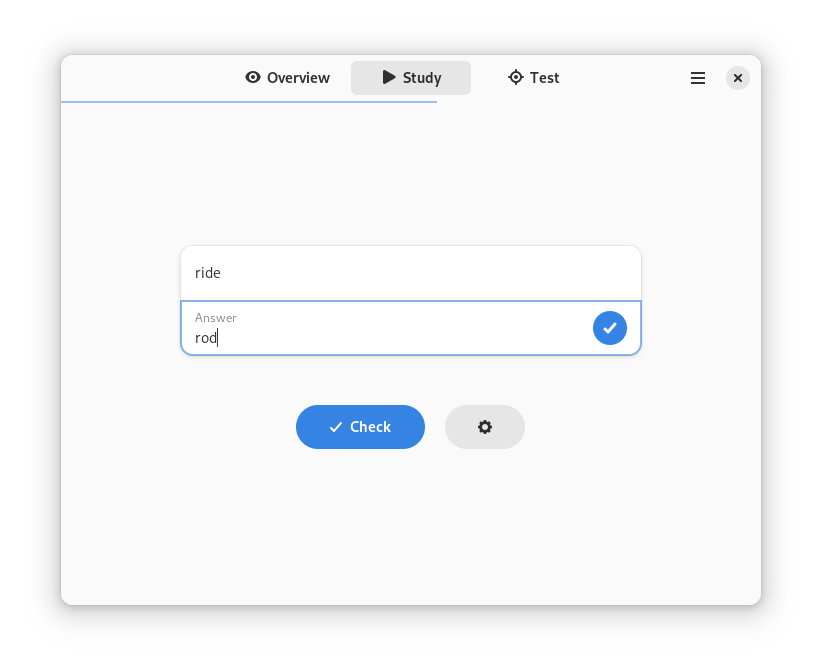
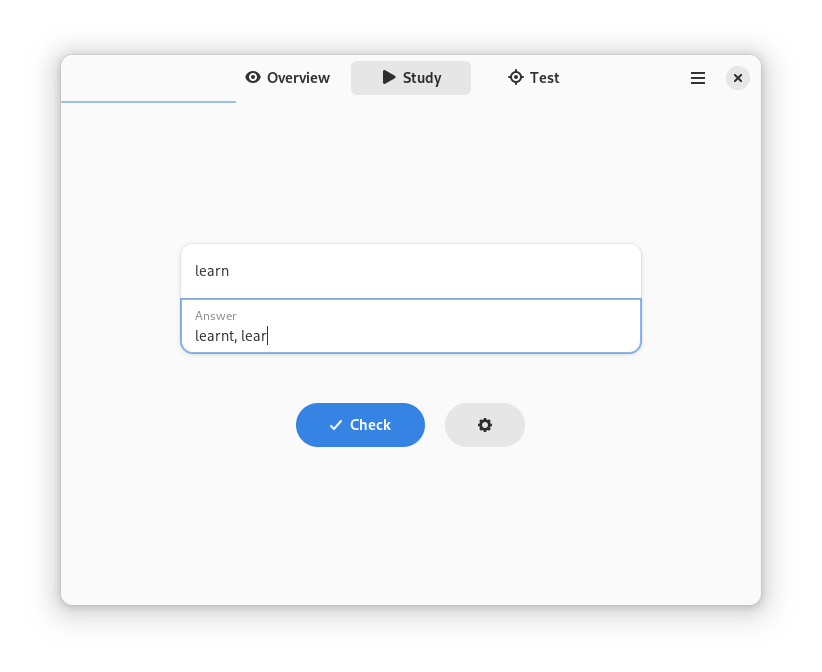
Remove duplicate check button in study view

diff --git a/Sources/View/StudyView.swift b/Sources/View/StudyView.swift
@@ -155,7 +155,7 @@ struct StudyView: View {
             Form {
                 ActionRow(flashcard.front)
                 EntryRow("Answer", text: $input)
-                    .onSubmit {
+                    .entryActivated {
                         check()
                     }
                     .insensitive(solution)
